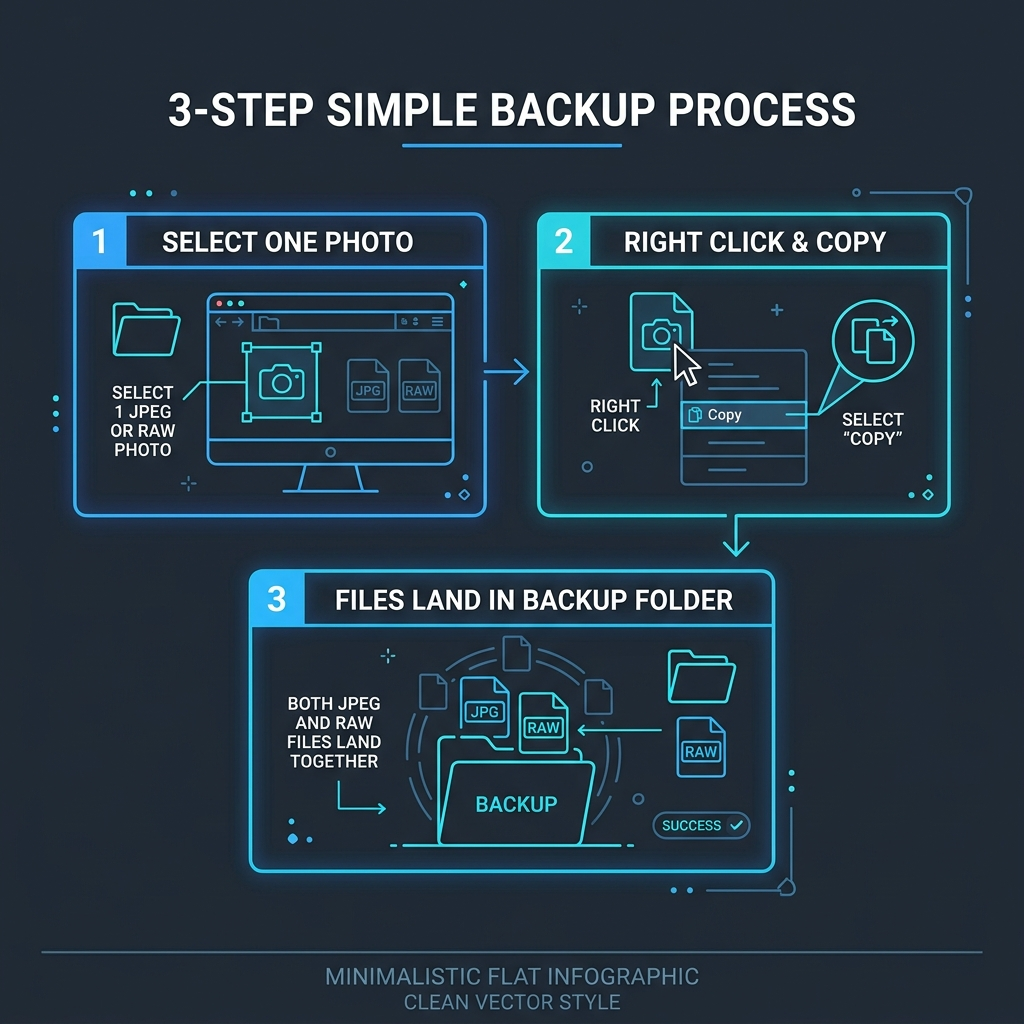
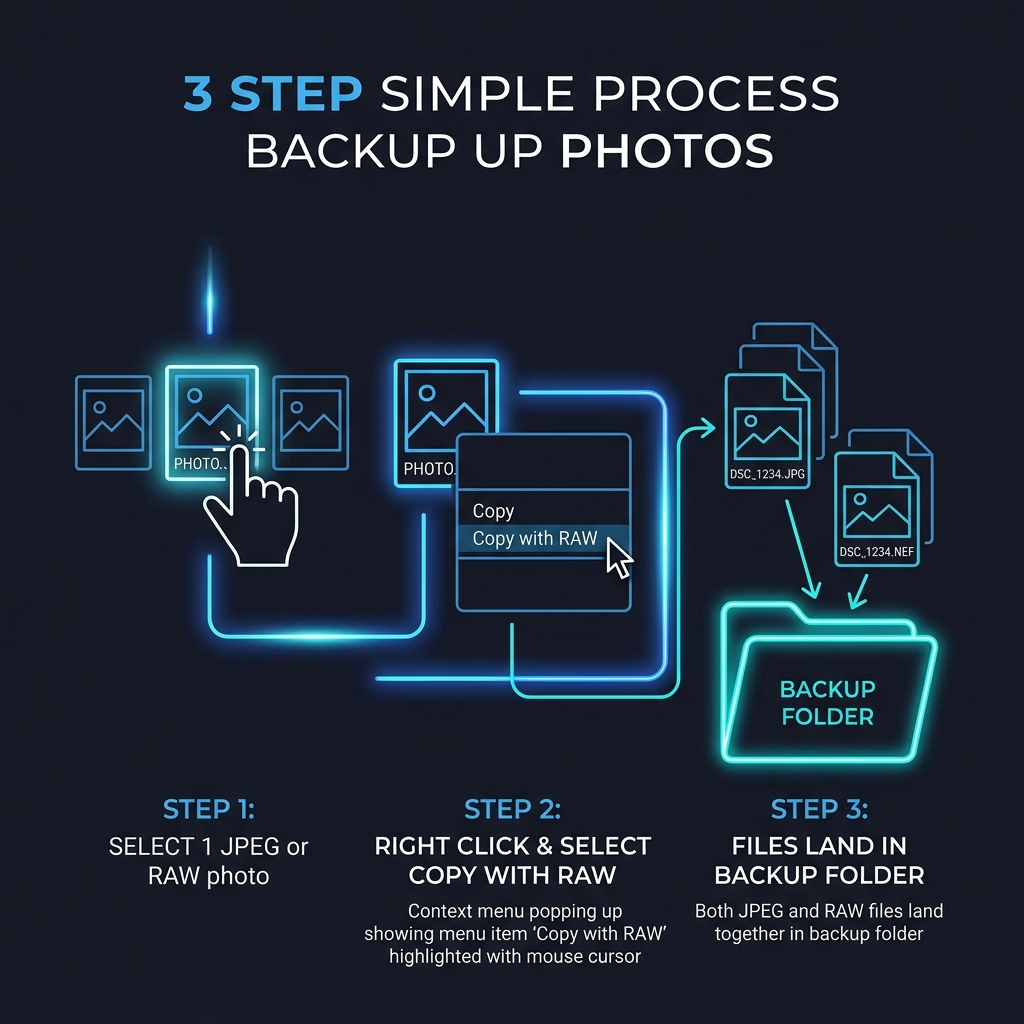
Update diagram image and text to specify Copy with RAW menu item

diff --git a/webpage/index.html b/webpage/index.html
@@ -350,7 +350,7 @@
     <section class="container">
         <div class="concept-box">
             <h2 data-i18n="concept_title">How It Works</h2>
-            <p data-i18n="concept_desc">You don't need to manually search for matching <b>.NEF</b>, <b>.CR3</b>, or <b>.ARW</b> files in your photo folder. Select the <b>JPEG</b> (or the <b>RAW</b>), right-click Copy, and the rest get copied over automatically — including <b>.xmp</b> edit files!</p>
+            <p data-i18n="concept_desc">You don't need to manually search for matching <b>.NEF</b>, <b>.CR3</b>, or <b>.ARW</b> files in your photo folder. Select the <b>JPEG</b> (or the <b>RAW</b>), right-click <b>Copy with RAW</b>, and the rest get copied over automatically — including <b>.xmp</b> edit files!</p>
         </div>
     </section>
 
@@ -423,7 +423,7 @@
                 hero_title: 'Select JPEG or RAW.<br><span>Copy Both Automatically.</span>',
                 hero_tagline: 'When backing up photo folders, select just one file. CopyWithRAW automatically finds and copies both the JPEG and RAW photo files together.',
                 concept_title: 'How It Works',
-                concept_desc: 'You don\'t need to manually search for matching <b>.NEF</b>, <b>.CR3</b>, or <b>.ARW</b> files in your photo folder. Select the <b>JPEG</b> (or the <b>RAW</b>), right-click Copy, and the rest get copied over automatically — including <b>.xmp</b> edit files!',
+                concept_desc: 'You don\'t need to manually search for matching <b>.NEF</b>, <b>.CR3</b>, or <b>.ARW</b> files in your photo folder. Select the <b>JPEG</b> (or the <b>RAW</b>), right-click <b>Copy with RAW</b>, and the rest get copied over automatically — including <b>.xmp</b> edit files!',
                 download_heading: 'Download CopyWithRAW',
                 win_exe_title: '🪟 Windows (.EXE)',
                 win_exe_desc: 'Single-click installer wizard with automatic registry setup.',
@@ -449,7 +449,7 @@
                 hero_title: 'Chọn file JPEG hoặc RAW.<br><span>Tự động sao chép cả hai.</span>',
                 hero_tagline: 'Khi sao lưu ảnh trong thư mục, bạn chỉ cần chọn một file. CopyWithRAW sẽ tự động tìm và sao chép cả file JPEG lẫn file RAW đi cùng nhau.',
                 concept_title: 'Cách Hoạt Động',
-                concept_desc: 'Bạn không cần phải tìm thủ công file <b>.NEF</b>, <b>.CR3</b>, hay <b>.ARW</b> tương ứng nữa. Chọn file <b>JPEG</b> (hoặc <b>RAW</b>), nhấp chuột phải Copy, tất cả các file liên quan — bao gồm cả file chỉnh sửa <b>.xmp</b> — sẽ được sao chép tự động!',
+                concept_desc: 'Bạn không cần phải tìm thủ công file <b>.NEF</b>, <b>.CR3</b>, hay <b>.ARW</b> tương ứng nữa. Chọn file <b>JPEG</b> (hoặc <b>RAW</b>), nhấp chuột phải chọn <b>Copy with RAW</b>, tất cả các file liên quan — bao gồm cả file chỉnh sửa <b>.xmp</b> — sẽ được sao chép tự động!',
                 download_heading: 'Tải Về CopyWithRAW',
                 win_exe_title: '🪟 Windows (.EXE)',
                 win_exe_desc: 'Bộ cài đặt tự động bấm 1 click cho Windows.',
